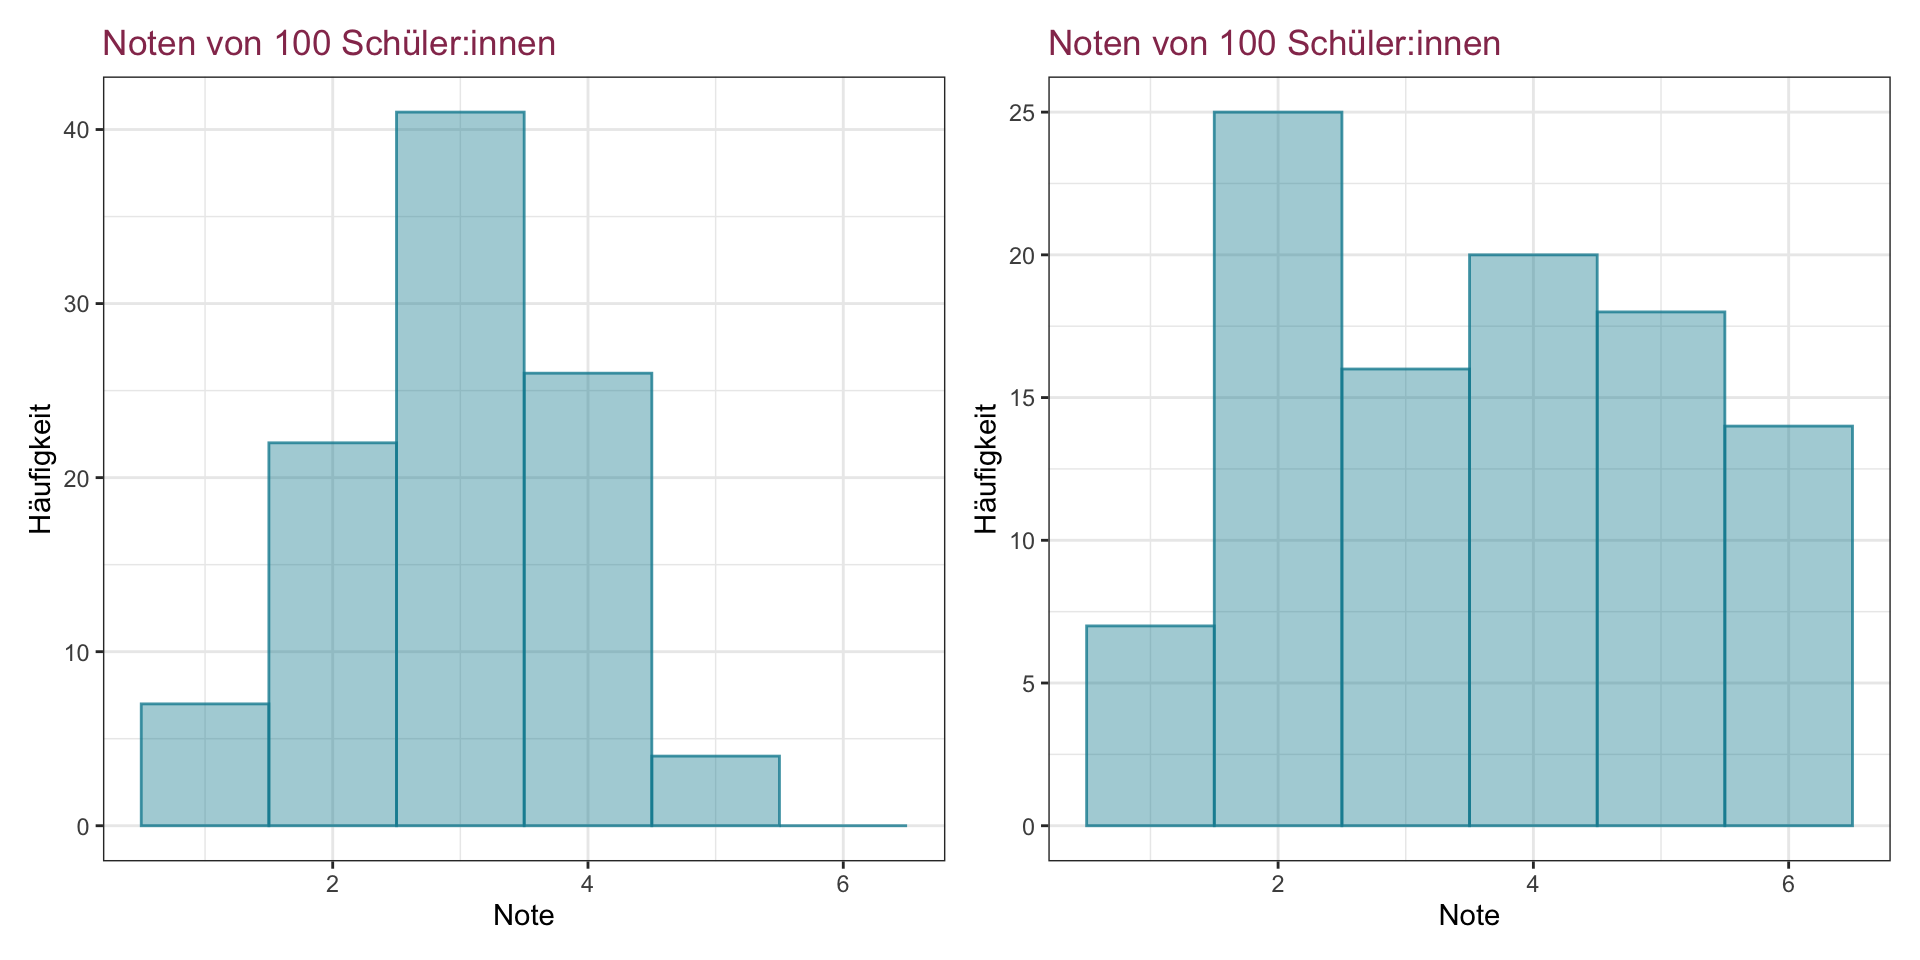
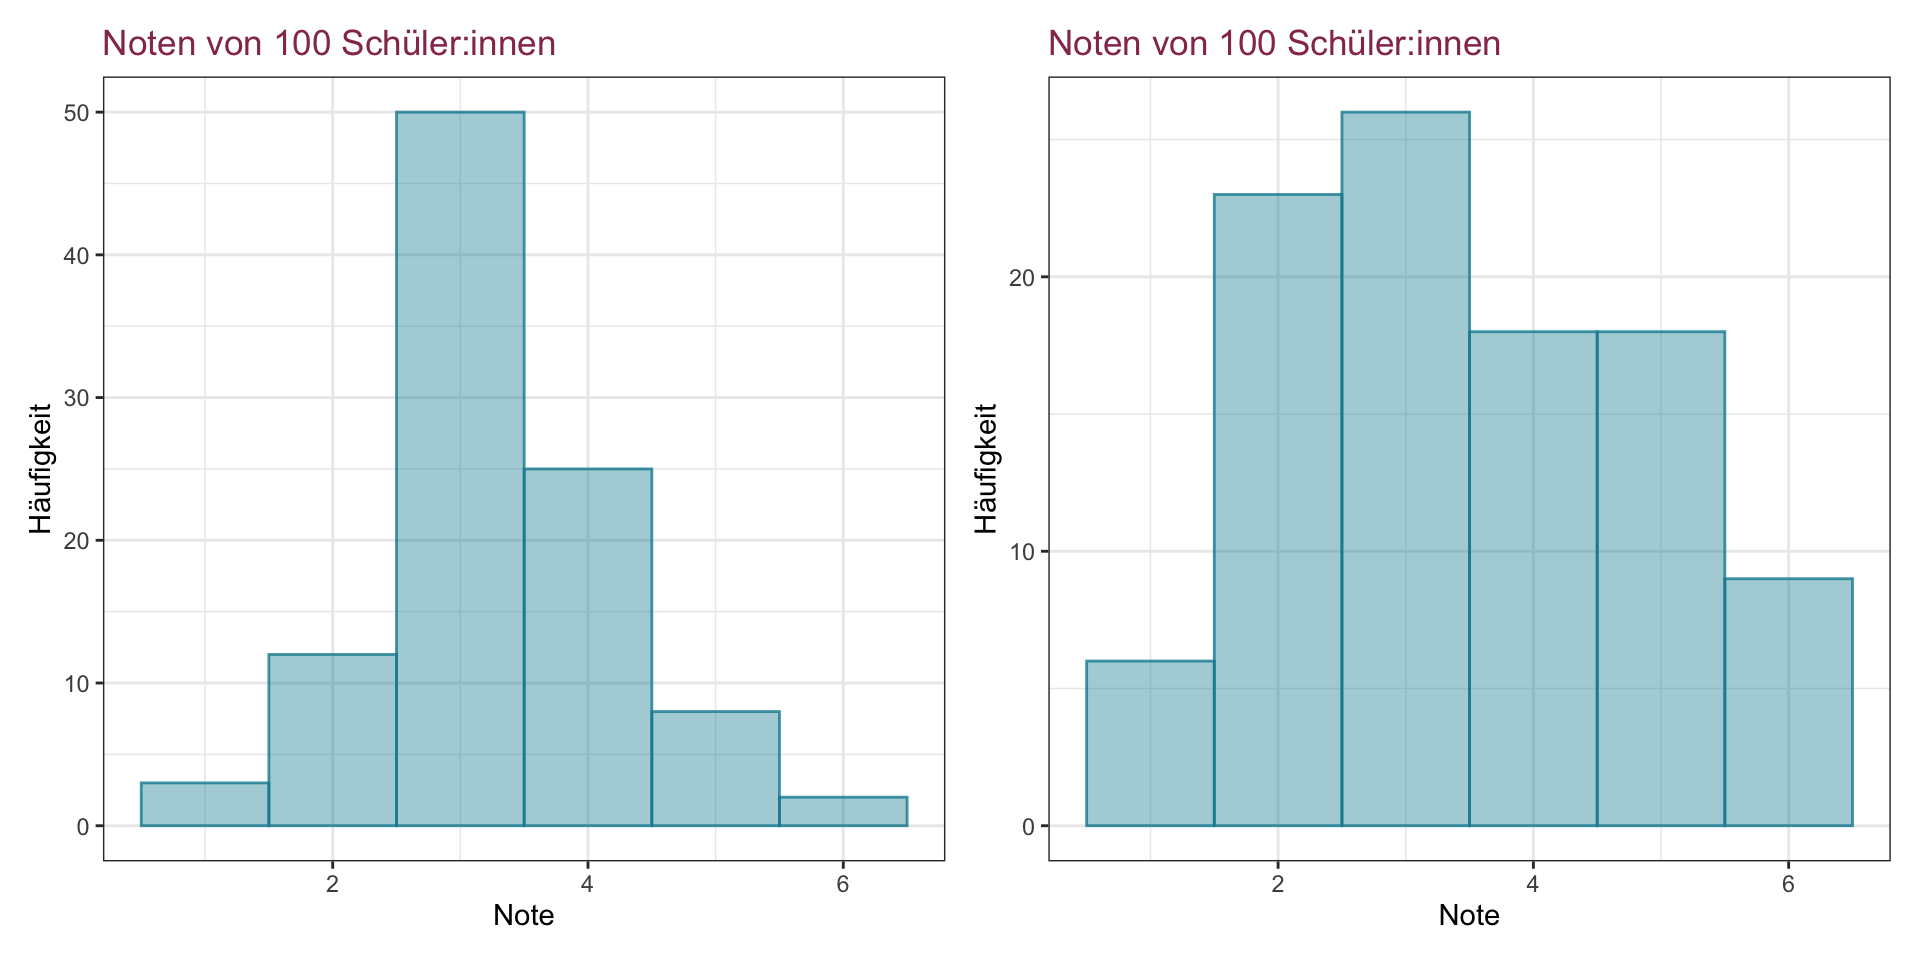
fehlerbehebung folien 4

diff --git a/docs/Sitzung_3.html b/docs/Sitzung_3.html
@@ -270,106 +270,106 @@ Eva Scheel
 <div class="cell">
 <div class="cell-output cell-output-stdout">
 <pre><code>    groesse_cm
-1        131.2
-2        153.1
-3        135.5
-4        153.4
-5        165.2
-6        147.4
-7        148.5
-8        129.9
-9        131.9
-10       123.1
-11       139.0
-12       144.7
-13       143.9
-14       144.8
-15       132.3
-16       136.2
-17       148.5
-18       145.4
-19       129.3
-20       143.4
-21       142.7
-22       130.4
-23       131.0
-24       122.1
-25       135.1
-26       150.1
-27       138.7
-28       137.4
-29       118.4
-30       137.5
-31       149.1
-32       127.0
-33       160.6
-34       143.8
-35       148.3
-36       151.9
-37       130.9
-38       133.8
-39       144.2
-40       136.7
-41       152.9
-42       143.7
-43       141.3
-44       154.4
-45       141.0
-46       136.7
-47       151.6
-48       141.1
-49       130.6
-50       128.7
-51       162.0
-52       125.6
-53       144.3
-54       126.3
-55       126.6
-56       140.4
-57       115.8
-58       143.7
-59       158.2
-60       151.1
-61       130.1
-62       136.5
-63       124.3
-64       154.5
-65       127.9
-66       137.2
-67       140.6
-68       145.6
-69       139.2
-70       133.9
-71       152.9
-72       141.6
-73       123.3
-74       155.6
-75       156.5
-76       151.6
-77       138.0
-78       151.7
-79       139.0
-80       141.9
-81       122.0
-82       130.3
-83       153.9
-84       135.5
-85       138.0
-86       136.2
-87       147.9
-88       132.3
-89       143.9
-90       139.4
-91       135.1
-92       144.5
-93       141.8
-94       150.0
-95       150.9
-96       138.3
-97       140.3
-98       138.6
-99       146.9
-100      150.8</code></pre>
+1        153.1
+2        133.8
+3        136.4
+4        145.8
+5        138.2
+6        146.0
+7        133.6
+8        141.9
+9        140.6
+10       141.6
+11       134.3
+12       151.3
+13       143.5
+14       131.8
+15       130.1
+16       145.7
+17       148.1
+18       142.1
+19       150.3
+20       152.4
+21       140.5
+22       148.7
+23       164.2
+24       134.0
+25       122.7
+26       132.6
+27       143.5
+28       137.0
+29       159.2
+30       144.2
+31       147.9
+32       140.3
+33       155.0
+34       138.7
+35       139.5
+36       155.6
+37       146.1
+38       150.2
+39       136.8
+40       135.7
+41       142.8
+42       143.3
+43       118.6
+44       139.6
+45       147.8
+46       139.6
+47       137.5
+48       129.0
+49       141.4
+50       166.3
+51       142.0
+52       148.6
+53       147.7
+54       132.5
+55       133.0
+56       143.7
+57       149.7
+58       146.1
+59       120.8
+60       146.2
+61       141.0
+62       142.3
+63       138.4
+64       152.5
+65       148.0
+66       123.1
+67       142.3
+68       129.4
+69       148.3
+70       141.0
+71       144.3
+72       139.1
+73       149.5
+74       149.5
+75       143.2
+76       145.3
+77       134.5
+78       129.6
+79       135.8
+80       142.8
+81       143.7
+82       152.8
+83       149.9
+84       134.7
+85       155.7
+86       145.9
+87       137.6
+88       155.4
+89       135.1
+90       130.3
+91       124.7
+92       144.7
+93       136.8
+94       145.6
+95       129.2
+96       137.9
+97       161.3
+98       146.9
+99       158.2
+100      140.8</code></pre>
 </div>
 </div>
 </div><div class="column">
@@ -378,10 +378,10 @@ Eva Scheel
 <pre><code>[1] "Anzahl Schüler:innen: 100"</code></pre>
 </div>
 <div class="cell-output cell-output-stdout">
-<pre><code>[1] "Höchstwert: 115.8"</code></pre>
+<pre><code>[1] "Höchstwert: 118.6"</code></pre>
 </div>
 <div class="cell-output cell-output-stdout">
-<pre><code>[1] "Tiefstwert: 165.2"</code></pre>
+<pre><code>[1] "Tiefstwert: 166.3"</code></pre>
 </div>
 </div>
 </div></div>
@@ -394,7 +394,7 @@ Eva Scheel
 <div class="cell">
 <div class="code-copy-outer-scaffold"><div class="sourceCode cell-code" id="cb5"><pre class="sourceCode numberSource r number-lines code-with-copy"><code class="sourceCode r"><span id="cb5-1"><a></a><span class="fu">mean</span>(heights<span class="sc">$</span>groesse_cm)</span></code></pre></div><button title="Copy to Clipboard" class="code-copy-button"><i class="bi"></i></button></div>
 <div class="cell-output cell-output-stdout">
-<pre><code>[1] 140.509</code></pre>
+<pre><code>[1] 142.163</code></pre>
 </div>
 </div>
 <p>Bezeichnung: <span class="math inline">\(M=`m`\)</span> oder <span class="math inline">\(\bar{x}\)</span></p>
@@ -422,21 +422,21 @@ Eva Scheel
 </div>
 <div class="code-copy-outer-scaffold"><div class="sourceCode cell-code" id="cb9"><pre class="sourceCode numberSource r number-lines code-with-copy"><code class="sourceCode r"><span id="cb9-1"><a></a>sorted_heights</span></code></pre></div><button title="Copy to Clipboard" class="code-copy-button"><i class="bi"></i></button></div>
 <div class="cell-output cell-output-stdout">
-<pre><code>  [1] 115.8 118.4 122.0 122.1 123.1 123.3 124.3 125.6 126.3 126.6 127.0 127.9
- [13] 128.7 129.3 129.9 130.1 130.3 130.4 130.6 130.9 131.0 131.2 131.9 132.3
- [25] 132.3 133.8 133.9 135.1 135.1 135.5 135.5 136.2 136.2 136.5 136.7 136.7
- [37] 137.2 137.4 137.5 138.0 138.0 138.3 138.6 138.7 139.0 139.0 139.2 139.4
- [49] 140.3 140.4 140.6 141.0 141.1 141.3 141.6 141.8 141.9 142.7 143.4 143.7
- [61] 143.7 143.8 143.9 143.9 144.2 144.3 144.5 144.7 144.8 145.4 145.6 146.9
- [73] 147.4 147.9 148.3 148.5 148.5 149.1 150.0 150.1 150.8 150.9 151.1 151.6
- [85] 151.6 151.7 151.9 152.9 152.9 153.1 153.4 153.9 154.4 154.5 155.6 156.5
- [97] 158.2 160.6 162.0 165.2</code></pre>
+<pre><code>  [1] 118.6 120.8 122.7 123.1 124.7 129.0 129.2 129.4 129.6 130.1 130.3 131.8
+ [13] 132.5 132.6 133.0 133.6 133.8 134.0 134.3 134.5 134.7 135.1 135.7 135.8
+ [25] 136.4 136.8 136.8 137.0 137.5 137.6 137.9 138.2 138.4 138.7 139.1 139.5
+ [37] 139.6 139.6 140.3 140.5 140.6 140.8 141.0 141.0 141.4 141.6 141.9 142.0
+ [49] 142.1 142.3 142.3 142.8 142.8 143.2 143.3 143.5 143.5 143.7 143.7 144.2
+ [61] 144.3 144.7 145.3 145.6 145.7 145.8 145.9 146.0 146.1 146.1 146.2 146.9
+ [73] 147.7 147.8 147.9 148.0 148.1 148.3 148.6 148.7 149.5 149.5 149.7 149.9
+ [85] 150.2 150.3 151.3 152.4 152.5 152.8 153.1 155.0 155.4 155.6 155.7 158.2
+ [97] 159.2 161.3 164.2 166.3</code></pre>
 </div>
 </div>
 <div class="cell">
 <div class="code-copy-outer-scaffold"><div class="sourceCode cell-code" id="cb11"><pre class="sourceCode numberSource r number-lines code-with-copy"><code class="sourceCode r"><span id="cb11-1"><a></a><span class="fu">median</span>(heights<span class="sc">$</span>groesse_cm)</span></code></pre></div><button title="Copy to Clipboard" class="code-copy-button"><i class="bi"></i></button></div>
 <div class="cell-output cell-output-stdout">
-<pre><code>[1] 140.5</code></pre>
+<pre><code>[1] 142.3</code></pre>
 </div>
 </div>
 
@@ -463,9 +463,9 @@ Eva Scheel
 <div class="cell-output cell-output-stdout">
 <pre><code>
    Biologie      Chemie     Deutsch    Englisch Französisch  Mathematik 
-         17          16          19          21          16          13 
+         18          13          22          12          17          21 
       Musik      Physik       Sport 
-         18          16          14 </code></pre>
+         18          14          15 </code></pre>
 </div>
 </div>
 <p>Anzahl Schüler:innen pro Hobby:</p>
@@ -473,9 +473,9 @@ Eva Scheel
 <div class="cell-output cell-output-stdout">
 <pre><code>
      Backgammon       Hula_Hoop      Kanufahren Modelleisenbahn         Posaune 
-             25              27              32              11              26 
+             24              22              30              20              27 
    Seilspringen 
-             29 </code></pre>
+             27 </code></pre>
 </div>
 </div>
 <p><span class="absolute" style="font-size: 70%; color: #6f5c7dea; bottom: 10px; ">*Erfundener Datensatz!</span></p>
@@ -495,20 +495,20 @@ Eva Scheel
 <div class="cell-output cell-output-stdout">
 <pre><code>                 
                   Biologie Chemie Deutsch Englisch Französisch Mathematik Musik
-  Backgammon             3      3       4        3           4          1     3
-  Hula_Hoop              6      2       1        1           3          1     2
-  Kanufahren             2      4       3        5           2          4     7
-  Modelleisenbahn        0      1       5        3           1          0     0
-  Posaune                4      2       4        4           5          3     1
-  Seilspringen           2      4       2        5           1          4     5
+  Backgammon             3      2       1        2           3          5     4
+  Hula_Hoop              1      2       1        3           2          6     1
+  Kanufahren             5      2       6        4           4          1     4
+  Modelleisenbahn        5      2       4        0           2          1     3
+  Posaune                3      4       2        1           3          5     4
+  Seilspringen           1      1       8        2           3          3     2
                  
                   Physik Sport
-  Backgammon           3     1
-  Hula_Hoop            6     5
-  Kanufahren           3     2
-  Modelleisenbahn      0     1
-  Posaune              0     3
-  Seilspringen         4     2</code></pre>
+  Backgammon           2     2
+  Hula_Hoop            4     2
+  Kanufahren           2     2
+  Modelleisenbahn      0     3
+  Posaune              2     3
+  Seilspringen         4     3</code></pre>
 </div>
 </div>
 </section>
@@ -735,7 +735,7 @@ SD = \sqrt{\frac{\sum (x-\bar{x})^2}{n-1}}
 </div>
 </div>
 <div class="cell-output cell-output-stdout">
-<pre><code>[1] 26.2182</code></pre>
+<pre><code>[1] 34.10079</code></pre>
 </div>
 </div>
 </div></div>

diff --git a/docs/Sitzung_4.html b/docs/Sitzung_4.html
@@ -261,7 +261,7 @@ Eva Scheel
 <div class="cell">
 <div class="code-copy-outer-scaffold"><div class="sourceCode cell-code" id="cb1"><pre class="sourceCode numberSource r number-lines code-with-copy"><code class="sourceCode r"><span id="cb1-1"><a></a><span class="fu">mean</span>(noten_daten<span class="sc">$</span>note)</span></code></pre></div><button title="Copy to Clipboard" class="code-copy-button"><i class="bi"></i></button></div>
 <div class="cell-output cell-output-stdout">
-<pre><code>[1] 3.382</code></pre>
+<pre><code>[1] 3.295</code></pre>
 </div>
 <div class="code-copy-outer-scaffold"><div class="sourceCode cell-code" id="cb3"><pre class="sourceCode numberSource r number-lines code-with-copy"><code class="sourceCode r"><span id="cb3-1"><a></a><span class="fu">median</span>(noten_daten<span class="sc">$</span>note)</span></code></pre></div><button title="Copy to Clipboard" class="code-copy-button"><i class="bi"></i></button></div>
 <div class="cell-output cell-output-stdout">
@@ -270,12 +270,12 @@ Eva Scheel
 <div class="code-copy-outer-scaffold"><div class="sourceCode cell-code" id="cb5"><pre class="sourceCode numberSource r number-lines code-with-copy"><code class="sourceCode r"><span id="cb5-1"><a></a>noten_daten <span class="sc">|&gt;</span> <span class="fu">count</span>(note) <span class="sc">|&gt;</span> <span class="fu">arrange</span>(<span class="fu">desc</span>(n))</span></code></pre></div><button title="Copy to Clipboard" class="code-copy-button"><i class="bi"></i></button></div>
 <div class="cell-output cell-output-stdout">
 <pre><code>  note   n
-1    3 310
-2    4 301
-3    5 161
-4    2 140
-5    1  73
-6    6  15</code></pre>
+1    3 312
+2    4 299
+3    5 149
+4    2 143
+5    1  90
+6    6   7</code></pre>
 </div>
 </div>
 </div><div class="column">
@@ -464,6 +464,9 @@ Eva Scheel
 <h4 id="vergleich-mit-der-normalverteilung">Vergleich mit der Normalverteilung</h4>
 
 <img data-src="Sitzung_4_files/figure-revealjs/unnamed-chunk-13-1.png" width="960" class="r-stretch"><p><span class="absolute" style="color: #5a4769ea; bottom: 0px; ">von <em>The English Lexicon Project</em> <span class="citation" data-cites="balota2007english">(<a href="#/references" role="doc-biblioref" onclick="">Balota et al. 2007</a>)</span></span></p>
+</section>
+<section class="slide level2">
+
 <h3 id="wie-überprüft-man-ob-eine-stichprobe-normalverteilt-ist-2">Wie überprüft man, ob eine Stichprobe normalverteilt ist?</h3>
 <h4 id="vergleich-mit-der-normalverteilung-1">Vergleich mit der Normalverteilung</h4>
 <p>Nun mit den logarithmierten Reaktionszeiten</p>
